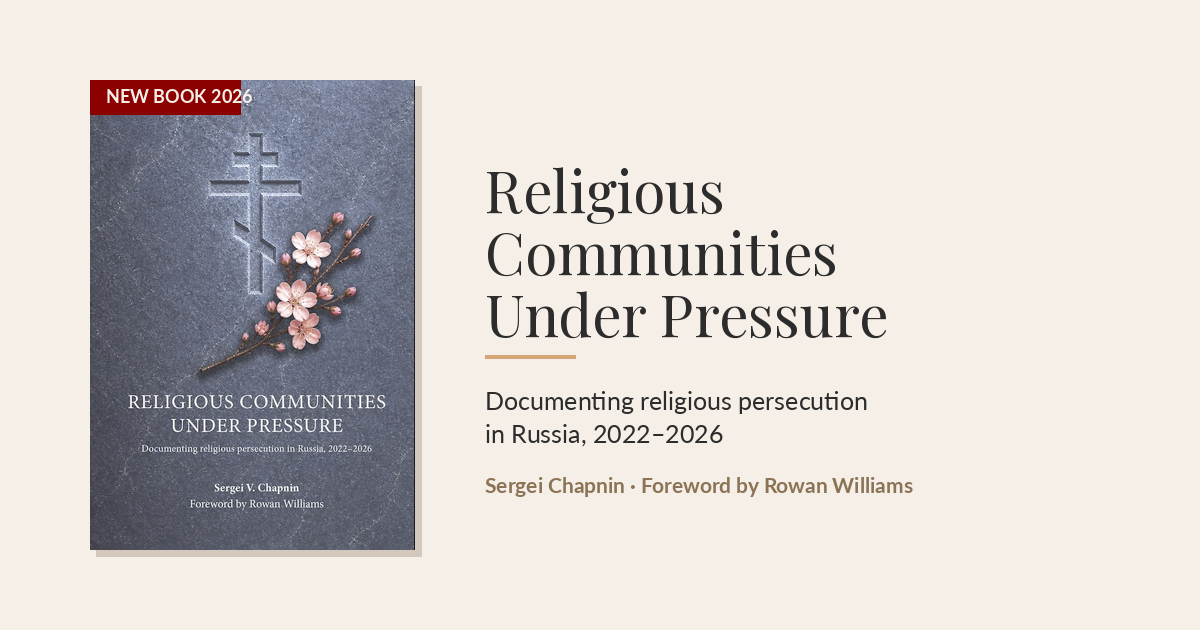
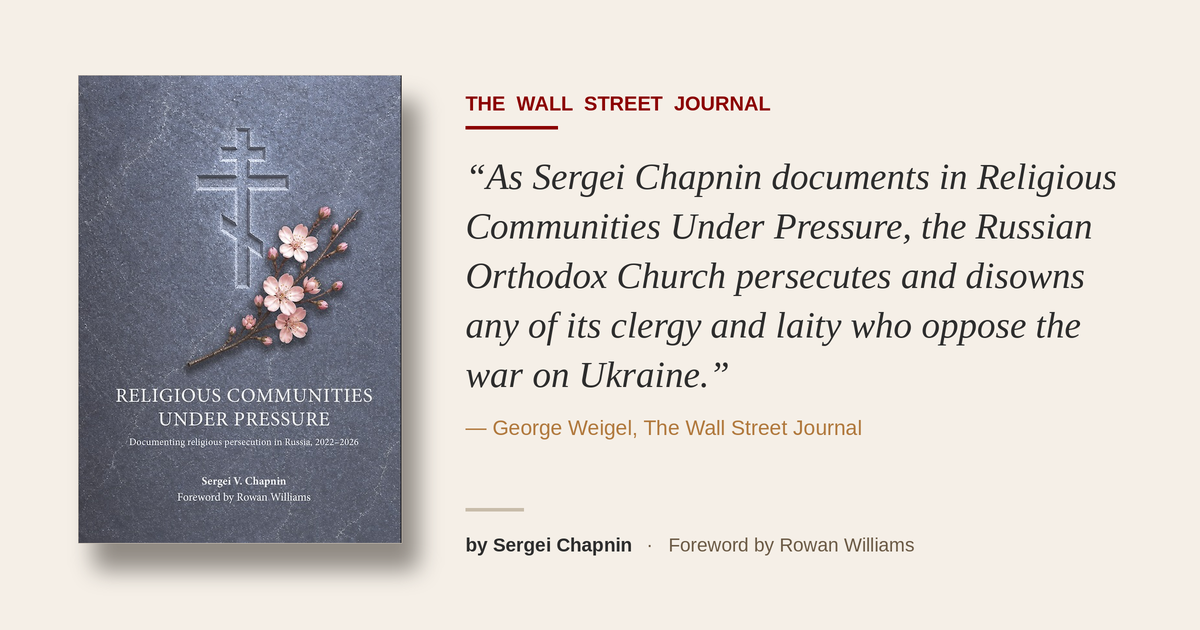
Book page: new OG social card (light, WSJ quote naming the book); cache-bust og:image
Claude-Session: https://claude.ai/code/session_01EGmmoxNKa4WruAUE3euntW

diff --git a/books/religious-communities-under-pressure/index.html b/books/religious-communities-under-pressure/index.html
@@ -27,7 +27,7 @@
   <meta property="og:title" content="Religious Communities Under Pressure">
   <meta property="og:description" content="120+ believers persecuted by Russia and its Church for opposing the war. By a former Moscow Patriarchate insider. Foreword by Rowan Williams.">
   <meta property="og:url" content="https://chapnin.org/books/religious-communities-under-pressure/">
-  <meta property="og:image" content="https://chapnin.org/images/og/og-book.png">
+  <meta property="og:image" content="https://chapnin.org/images/og/og-book.png?v=2">
   <meta property="og:image:width" content="1200">
   <meta property="og:image:height" content="630">
   <meta property="og:locale" content="en_US">
@@ -39,7 +39,7 @@
   <meta name="twitter:card" content="summary_large_image">
   <meta name="twitter:title" content="Religious Communities Under Pressure">
   <meta name="twitter:description" content="120+ believers persecuted by Russia and its Church for opposing the war. Foreword by Rowan Williams. Cited by George Weigel in the WSJ.">
-  <meta name="twitter:image" content="https://chapnin.org/images/og/og-book.png">
+  <meta name="twitter:image" content="https://chapnin.org/images/og/og-book.png?v=2">
 
   <link rel="icon" type="image/png" sizes="32x32" href="/images/favicon.png?v=2">
   <link rel="icon" type="image/x-icon" href="/images/favicon.ico?v=2">
